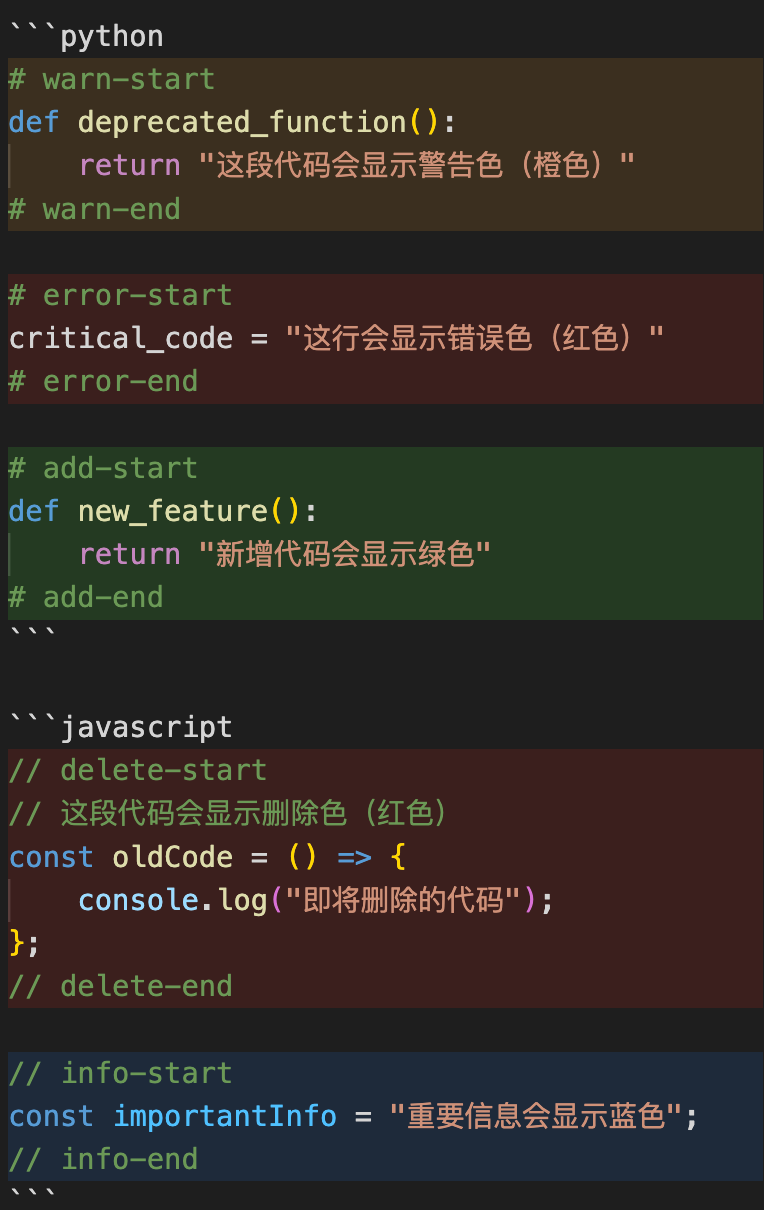
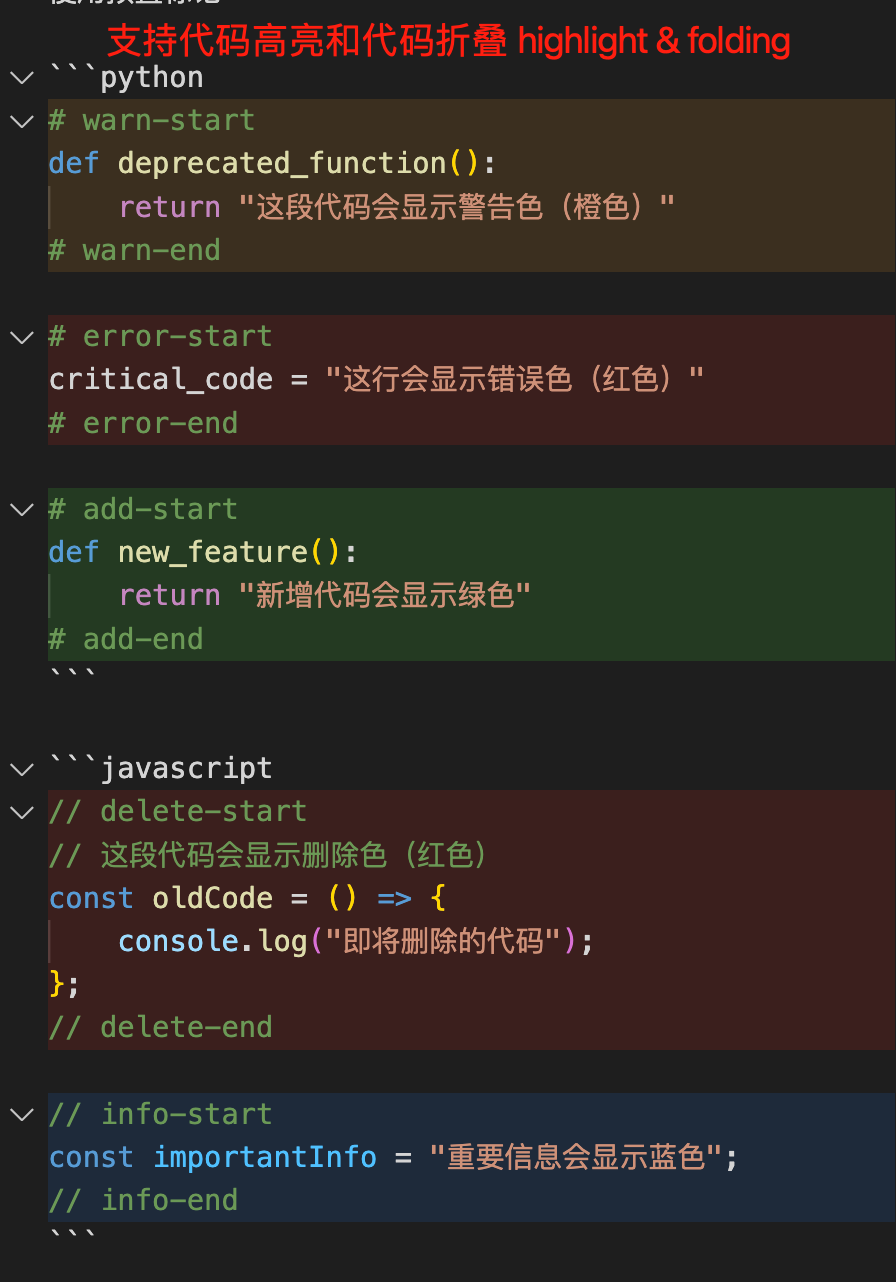
Add code folding feature v1.1.0
新功能：
- 📁 添加代码折叠功能，高亮的代码块现在可以折叠/展开
- 🔧 新增 HighlightBlockFoldingProvider 折叠范围提供者
- ⚙ 添加 highlightBlock.enableFolding 配置选项
- 📄 添加 language-configuration.json 语言配置文件
- 📖 更新 README.md 文档说明折叠功能
- �� 版本升级到 1.1.0

技术实现：
- 注册折叠范围提供者支持所有文件类型
- 自动检测 marker-start 到 marker-end 的完整标记对
- 可通过配置开关启用/禁用折叠功能
- 打包大小：236.47KB (12 files)

Changed region(s): [[0.0, 0.0, 1.0, 0.5198], [0.0, 0.581, 1.0, 0.9785]]

diff --git a/src/extension.js b/src/extension.js
@@ -1,6 +1,71 @@
 const vscode = require('vscode');
 
 /**
+ * 折叠范围提供者
+ */
+class HighlightBlockFoldingProvider {
+    constructor(highlightManager) {
+        this.highlightManager = highlightManager;
+    }
+
+    provideFoldingRanges(document, context, token) {
+        // 检查是否启用折叠功能
+        const config = vscode.workspace.getConfiguration('highlightBlock');
+        if (!config.get('enableFolding', true)) {
+            return [];
+        }
+
+        const colorMappings = this.highlightManager.getColorMappings();
+        const foldingRanges = [];
+
+        const text = document.getText();
+        const lines = text.split('\n');
+
+        // 跟踪每个标记的当前块
+        const currentBlocks = {};
+
+        for (let i = 0; i < lines.length; i++) {
+            const line = lines[i];
+            const trimmedLine = line.trim();
+
+            // 检查每个配置的标记
+            Object.keys(colorMappings).forEach(marker => {
+                const startMarker = `${marker}-start`;
+                const endMarker = `${marker}-end`;
+
+                // 检查开始标记
+                if (this.highlightManager.containsMarker(trimmedLine, startMarker)) {
+                    currentBlocks[marker] = {
+                        startLine: i,
+                        endLine: null
+                    };
+                }
+                // 检查结束标记
+                else if (this.highlightManager.containsMarker(trimmedLine, endMarker)) {
+                    if (currentBlocks[marker]) {
+                        const startLine = currentBlocks[marker].startLine;
+                        const endLine = i;
+                        
+                        // 创建折叠范围（从开始标记行到结束标记行）
+                        if (endLine > startLine) {
+                            foldingRanges.push(new vscode.FoldingRange(
+                                startLine,
+                                endLine,
+                                vscode.FoldingRangeKind.Region
+                            ));
+                        }
+                        
+                        currentBlocks[marker] = null;
+                    }
+                }
+            });
+        }
+
+        return foldingRanges;
+    }
+}
+
+/**
  * 高亮块管理器
  */
 class HighlightBlockManager {
@@ -241,6 +306,7 @@ class HighlightBlockManager {
 }
 
 let highlightManager;
+let foldingProvider;
 
 /**
  * 插件激活函数
@@ -249,6 +315,7 @@ function activate(context) {
     console.log('Highlight Block 插件已激活');
 
     highlightManager = new HighlightBlockManager();
+    foldingProvider = new HighlightBlockFoldingProvider(highlightManager);
 
     // 注册命令：切换高亮
     const toggleCommand = vscode.commands.registerCommand('highlight-block.toggle', () => {
@@ -323,6 +390,12 @@ function activate(context) {
         }
     });
 
+    // 注册折叠范围提供者（支持所有语言）
+    const foldingProviderRegistration = vscode.languages.registerFoldingRangeProvider(
+        { scheme: 'file' }, // 支持所有文件
+        foldingProvider
+    );
+
     // 添加到订阅列表
     context.subscriptions.push(
         toggleCommand,
@@ -332,6 +405,7 @@ function activate(context) {
         onDidChangeTextDocument,
         onDidChangeConfiguration,
         onDidChangeVisibleTextEditors,
+        foldingProviderRegistration,
         highlightManager
     );
 

diff --git a/README.md b/README.md
@@ -4,7 +4,7 @@
   <img src="https://raw.githubusercontent.com/jianduo1/vscode-highlight-block/main/icon.jpg" alt="Highlight Block Logo" width="128" height="128">
 </p>
 
-一个 VS Code 插件，用于根据映射表格配置高亮不同标记的代码块，类似 Cursor 的代码差异显示效果。
+一个 VS Code 插件，用于根据映射表格配置高亮不同标记的代码块，支持代码折叠，类似 Cursor 的代码差异显示效果。
 
 ## 效果展示
 
@@ -20,6 +20,7 @@
 - 📝 支持多种注释格式中的标记
 - ⚡ 实时更新高亮效果
 - 🎯 初始配置为空，需要用户自定义标记和颜色
+- 📁 支持代码块折叠功能，可以折叠/展开高亮的代码区域
 
 ## 使用方法
 
@@ -124,6 +125,11 @@ const importantInfo = "重要信息会显示蓝色";
 - 类型：`boolean`
 - 默认值：`true`
 - 描述：是否自动检测并高亮标记块
+
+### `highlightBlock.enableFolding`
+- 类型：`boolean`
+- 默认值：`true`
+- 描述：为高亮代码块启用折叠功能
 
 ## 配置示例
 
